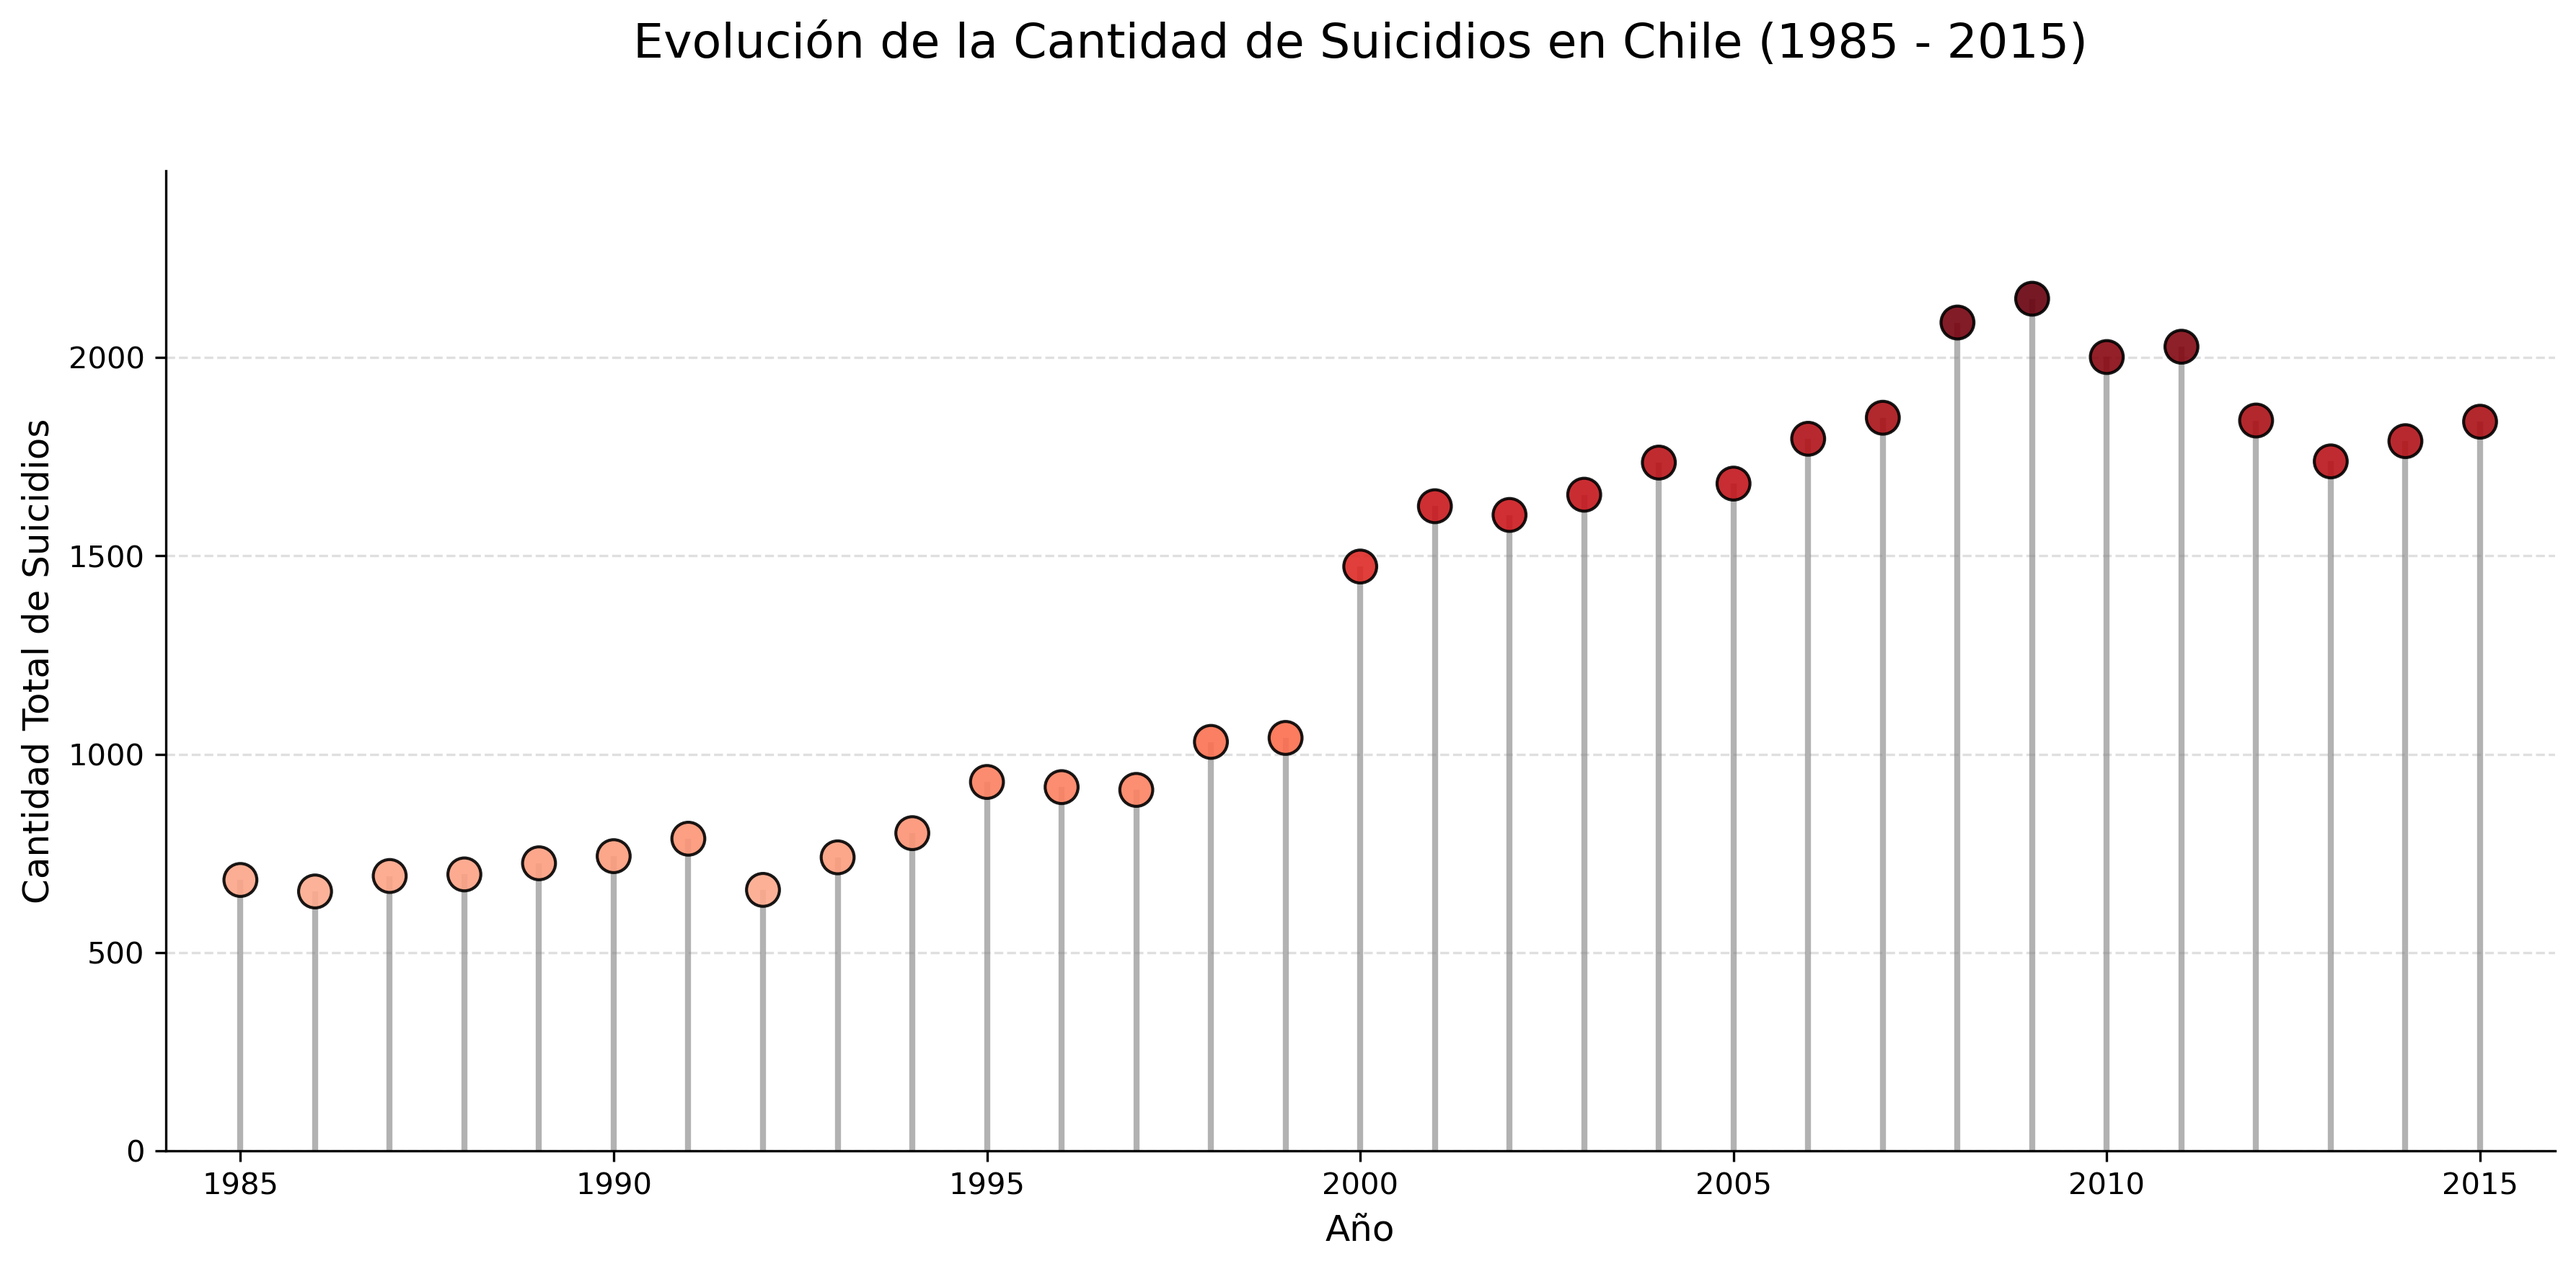
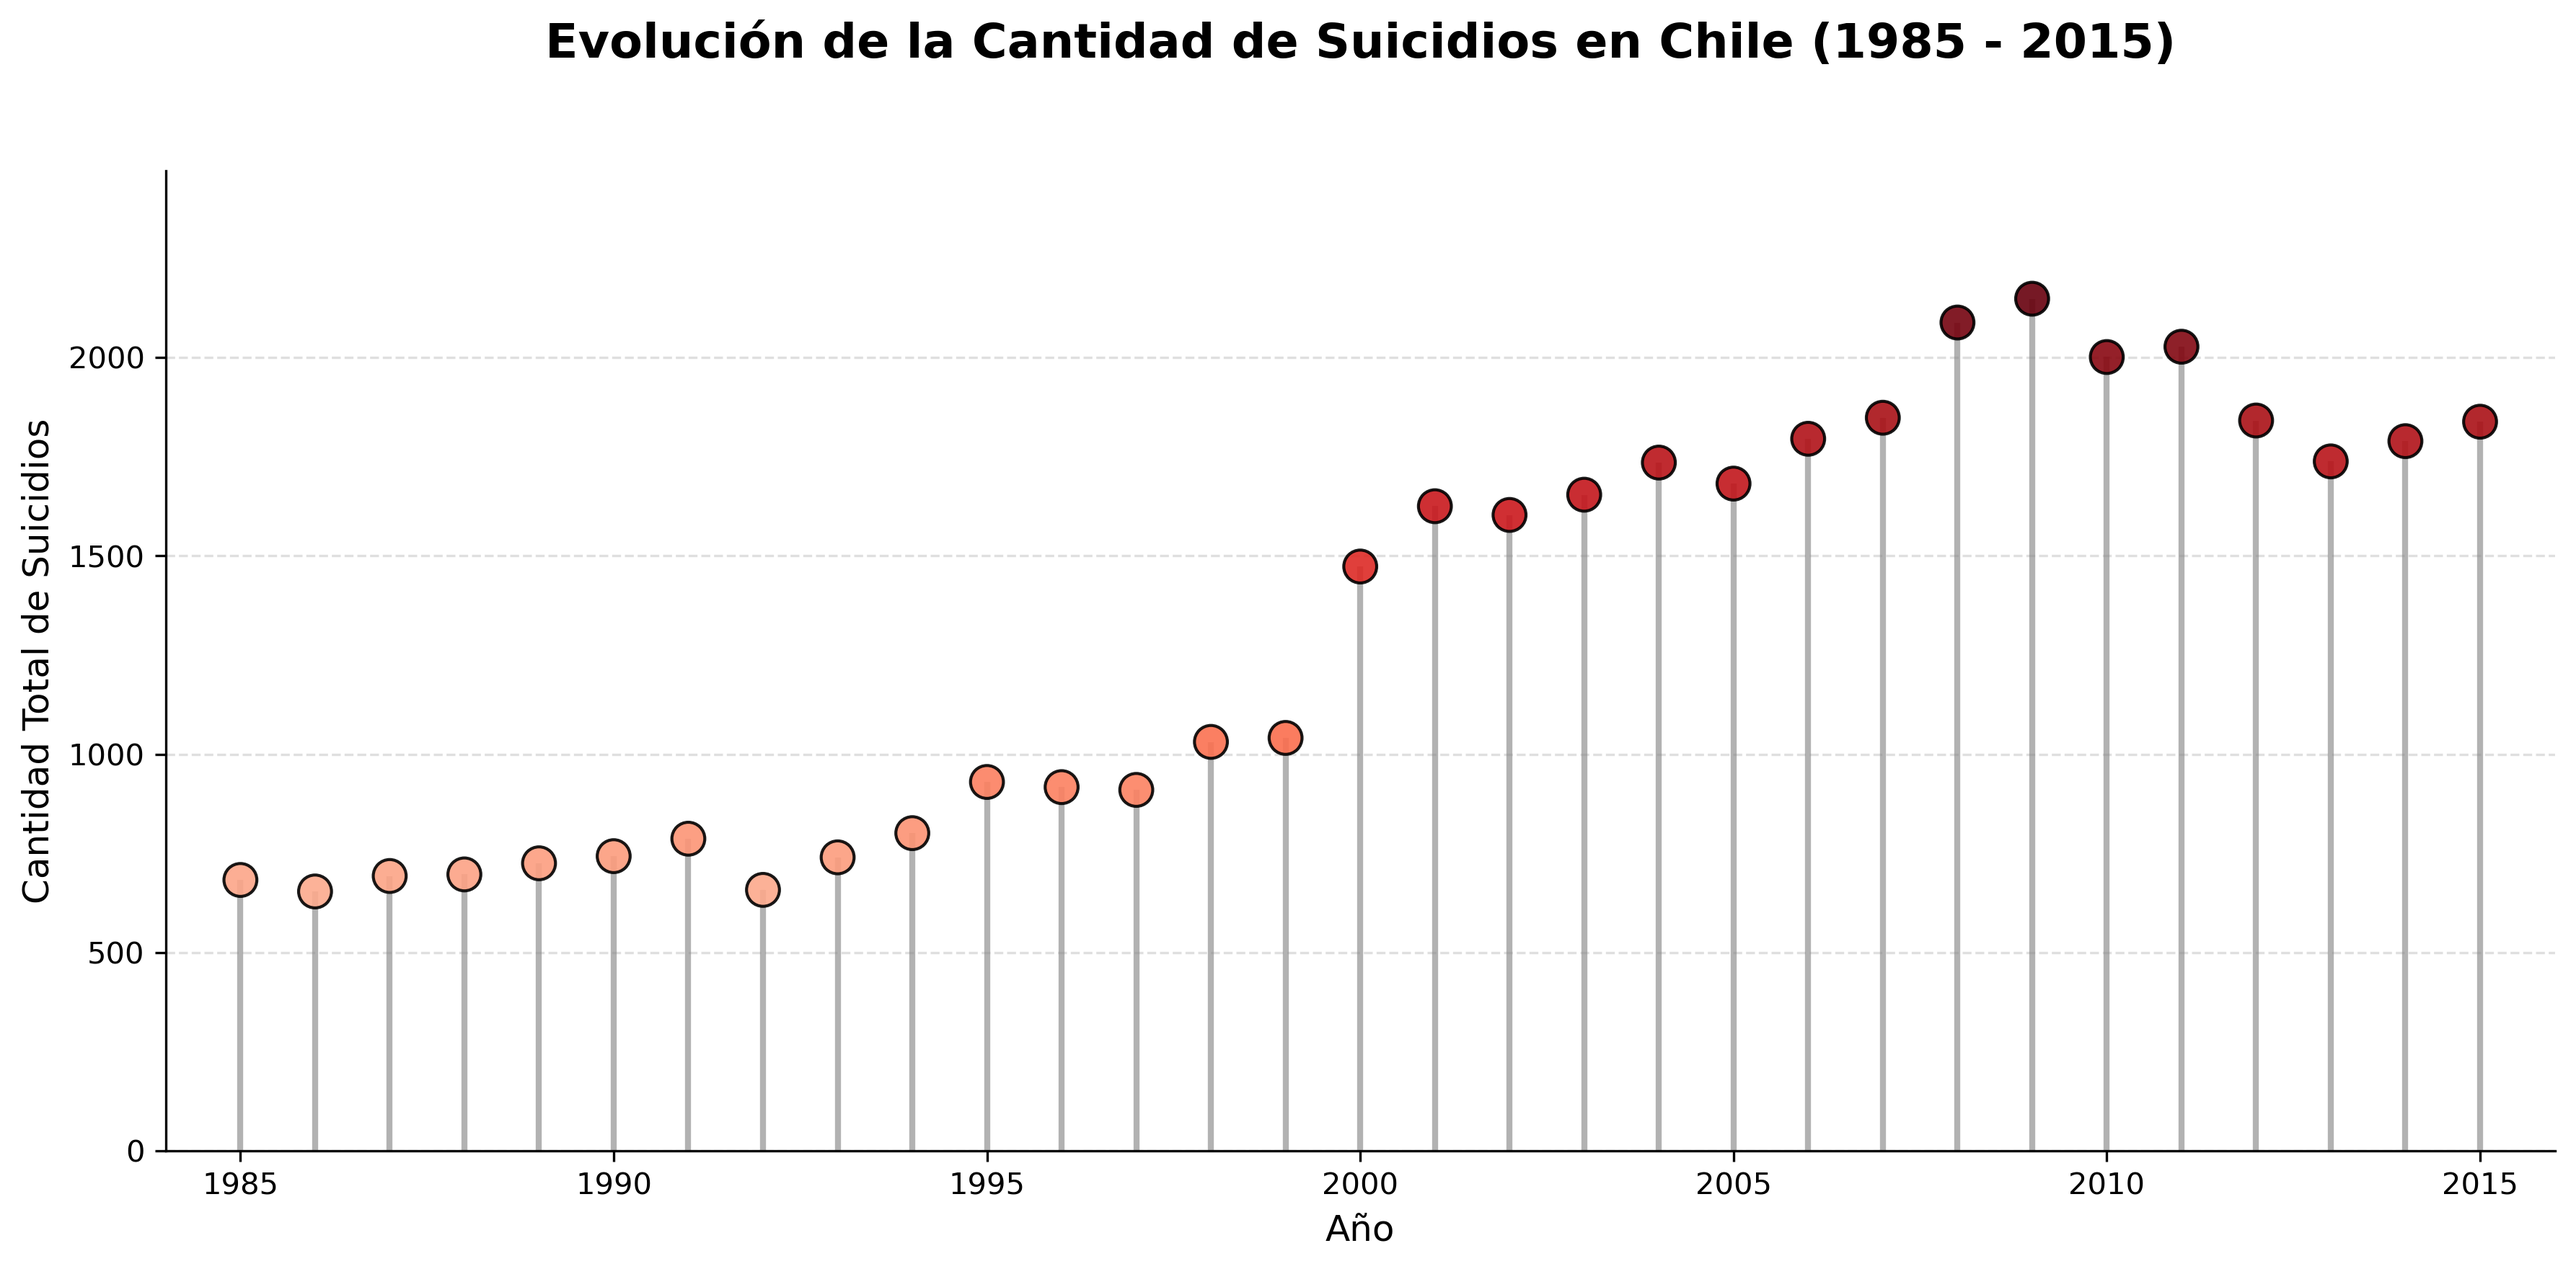
feat: 2 grafico 2 criterio

Changed region(s): [[0.2175, 0.0, 0.839, 0.0625]]

diff --git a/Code/Alexis-Mellis/streamgraph.py b/Code/Alexis-Mellis/streamgraph.py
@@ -1,0 +1,36 @@
+import pandas as pd
+import matplotlib.pyplot as plt
+import numpy as np
+
+df = pd.read_csv("Datasets/suicide_dataset.csv")
+
+df_chile = df[df["country"] == "Chile"]
+df_grouped = df_chile.groupby(["year", "age"])["suicides_no"].sum().reset_index()
+
+age_order = ["5-14 years", "15-24 years", "25-34 years", "35-54 years", "55-74 years", "75+ years"]
+df_grouped["age"] = pd.Categorical(df_grouped["age"], categories=age_order, ordered=True)
+
+df_pivot = df_grouped.pivot(index="year", columns="age", values="suicides_no").fillna(0)
+df_pivot = df_pivot[df_pivot.index <= 2015]
+
+x = df_pivot.index
+y = df_pivot.T.values
+etiquetas = df_pivot.columns
+
+fig, ax = plt.subplots(figsize=(12, 6))
+
+ax.stackplot(x, y, labels=etiquetas, baseline="sym", colors=plt.cm.Reds(np.linspace(0.15, 0.9, 6)))
+
+ax.set_title("Distribución Etaria de Suicidios en Chile (1985 - 2015)\n", fontsize=16, fontweight="bold")
+ax.set_xlabel("Año", fontsize=12)
+ax.set_yticks([])
+
+for spine in ["top", "right", "left"]:
+    ax.spines[spine].set_visible(False)
+
+ax.set_xlim(x.min(), x.max())
+ax.legend(loc="center left", bbox_to_anchor=(1.02, 0.5), title="Grupo Etario", frameon=False)
+
+plt.tight_layout()
+plt.savefig("Code/Alexis-Mellis/streamgraph_chile_suicidio.png", dpi=300, bbox_inches="tight")
+plt.show()

diff --git a/Code/Alexis-Mellis/lollipop.py b/Code/Alexis-Mellis/lollipop.py
@@ -15,7 +15,7 @@ colors = plt.cm.Reds(y / y.max())
 
 ax.vlines(x=x, ymin=0, ymax=y, color="gray", alpha=0.6, linewidth=2)
 ax.scatter(x, y, color=colors, s=120, zorder=3, edgecolor="black", alpha=0.9)
-ax.set_title("Evolución de la Cantidad de Suicidios en Chile (1985 - 2015)\n", fontsize=16, pad=20)
+ax.set_title("Evolución de la Cantidad de Suicidios en Chile (1985 - 2015)\n", fontsize=16, pad=20, fontweight="bold")
 ax.set_xlabel("Año", fontsize=12)
 ax.set_ylabel("Cantidad Total de Suicidios", fontsize=12)
 

diff --git a/Code/Alexis-Mellis/barcode.py b/Code/Alexis-Mellis/barcode.py
@@ -12,7 +12,7 @@ years = df_year_filter["year"].values
 suicides_no = df_year_filter["suicides_no"].values
 
 fig, ax = plt.subplots(figsize=(12, 3))
-cmap = plt.cm.Reds
+cmap = plt.cm.bone_r
 norm = Normalize(vmin=suicides_no.min(), vmax=suicides_no.max())
 
 for i in range(len(years)):
